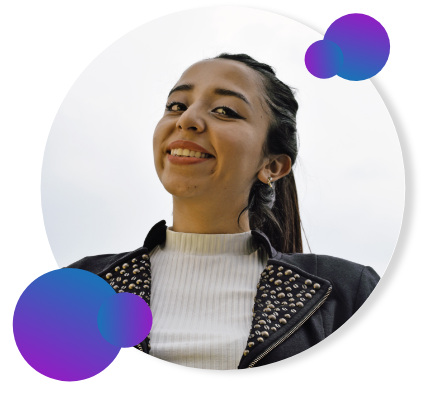
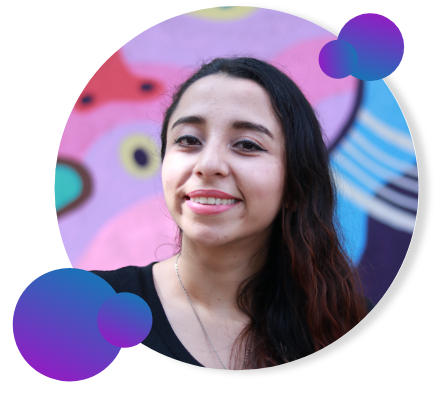
Change profile picture and grandients colors.

diff --git a/src/index.html b/src/index.html
@@ -81,15 +81,14 @@
         <section id="hero">
             <article>
                 <h1>Hola</h1>
-                <p>Desarrollador Front-end & Diseñador</p>
+                <p>Desarrolladora Front-end & Diseñadora</p>
             </article>
         </section>
         <section id="about-me">
             <article>
                 <h2>Sobre mí</h2>
                 <article id="about-me-container">
-                    <!-- <div id="gradient-border">
-                    </div> -->
+
                     <div id="bio-container">
 
                         <div id="bio">
@@ -223,6 +222,24 @@
                                     <img src="./img/firebase.svg" alt="firebase">
                                 </figure>
                                 <p>Firebase</p>
+                            </li>
+                            <li>
+                                <figure>
+                                    <img src="./img/jest.svg" alt="jest">
+                                </figure>
+                                <p>Jest</p>
+                            </li>
+                            <li>
+                                <figure>
+                                    <img src="./img/bootstrap.svg" alt="bootstrap">
+                                </figure>
+                                <p>Bootstrap</p>
+                            </li>
+                            <li>
+                                <figure>
+                                    <img src="./img/materialize.svg" alt="materialize">
+                                </figure>
+                                <p>Materialize</p>
                             </li>
                         </ul>
                     </div>

diff --git a/src/styles.css b/src/styles.css
@@ -175,6 +175,7 @@ nav figure img {
     width: 100vw;
     height: 100vh;
     align-items: center;
+    margin-top: 0;
 }
 
 #hero article {
@@ -556,6 +557,7 @@ footer .contact {
         flex-direction: row;
     }
     #bio-container {
+        width: 70%;
         display: flex;
         flex-direction: row;
         justify-content: space-around;
